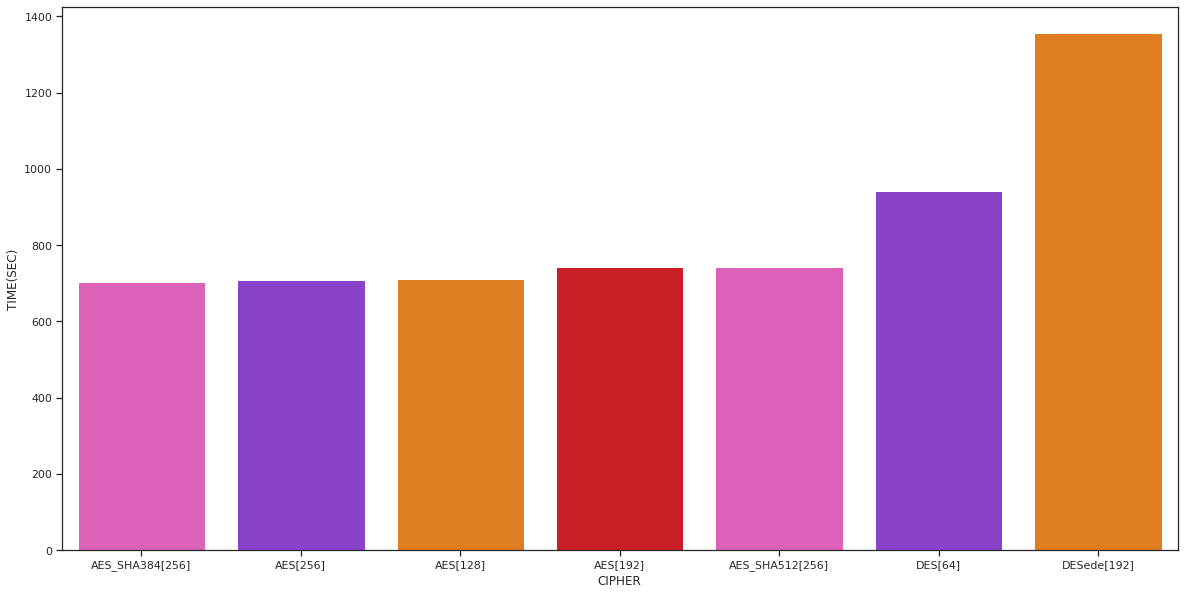
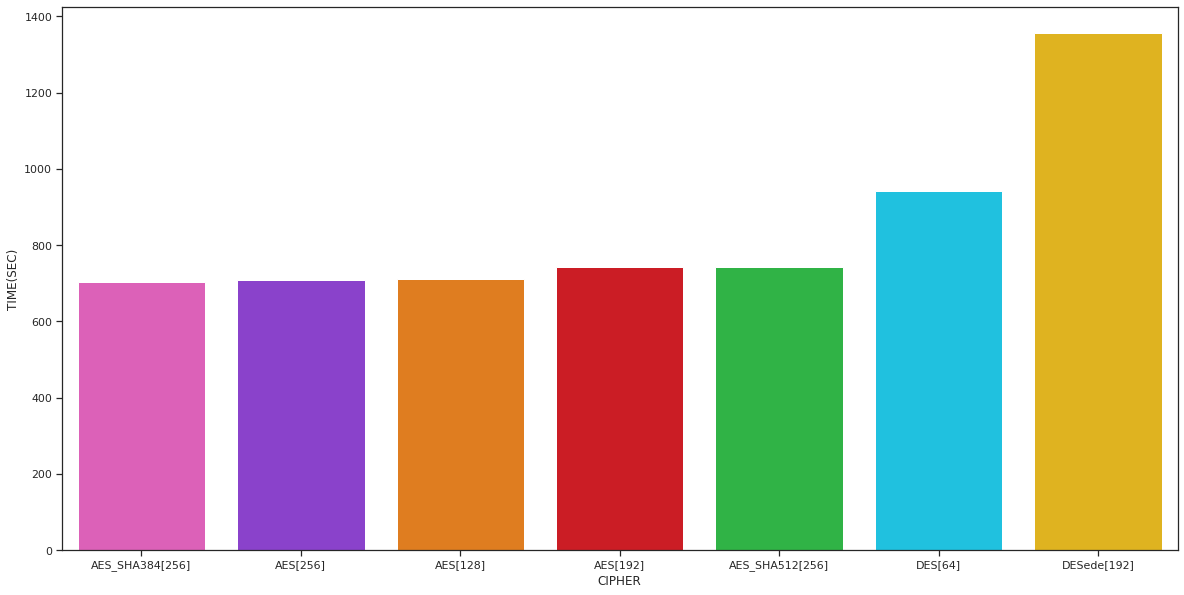
:fire:

Changed region(s): [[0.5938, 0.0303, 1.0, 0.9378]]

diff --git a/README.md b/README.md
@@ -172,7 +172,7 @@ Muestra el tiempo en segundos que le toma decifrar el corpus $\mathbb D$
 
 
 ```python
-colors2 =[colors[4],colors[3],colors[0],colors[2],colors[]]
+colors2 =[colors[4],colors[3],colors[0],colors[2],colors[1],colors[6],colors[5]]
 sns.barplot(x="CIPHER",y="TIME(SEC)",data=_info_df,palette=colors2)
 ```
 
@@ -195,7 +195,7 @@ Muestra la tasa en megabytes por segundo que le toma a cada cifrador, decifrar e
 
 
 ```python
-sns.barplot(x="CIPHER",y="TASA(MB/SEC)",data=_info_df)
+sns.barplot(x="CIPHER",y="TASA(MB/SEC)",data=_info_df,palette=colors2)
 ```
 
 
